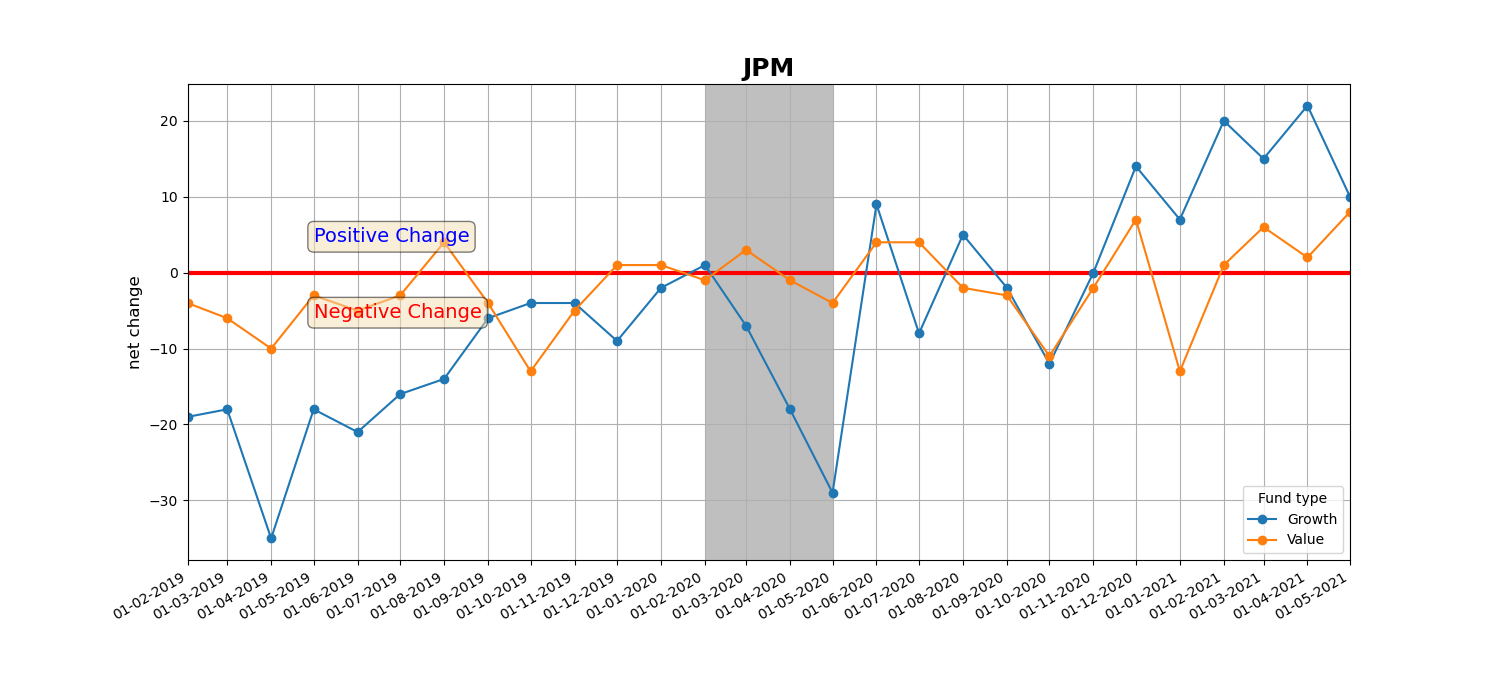
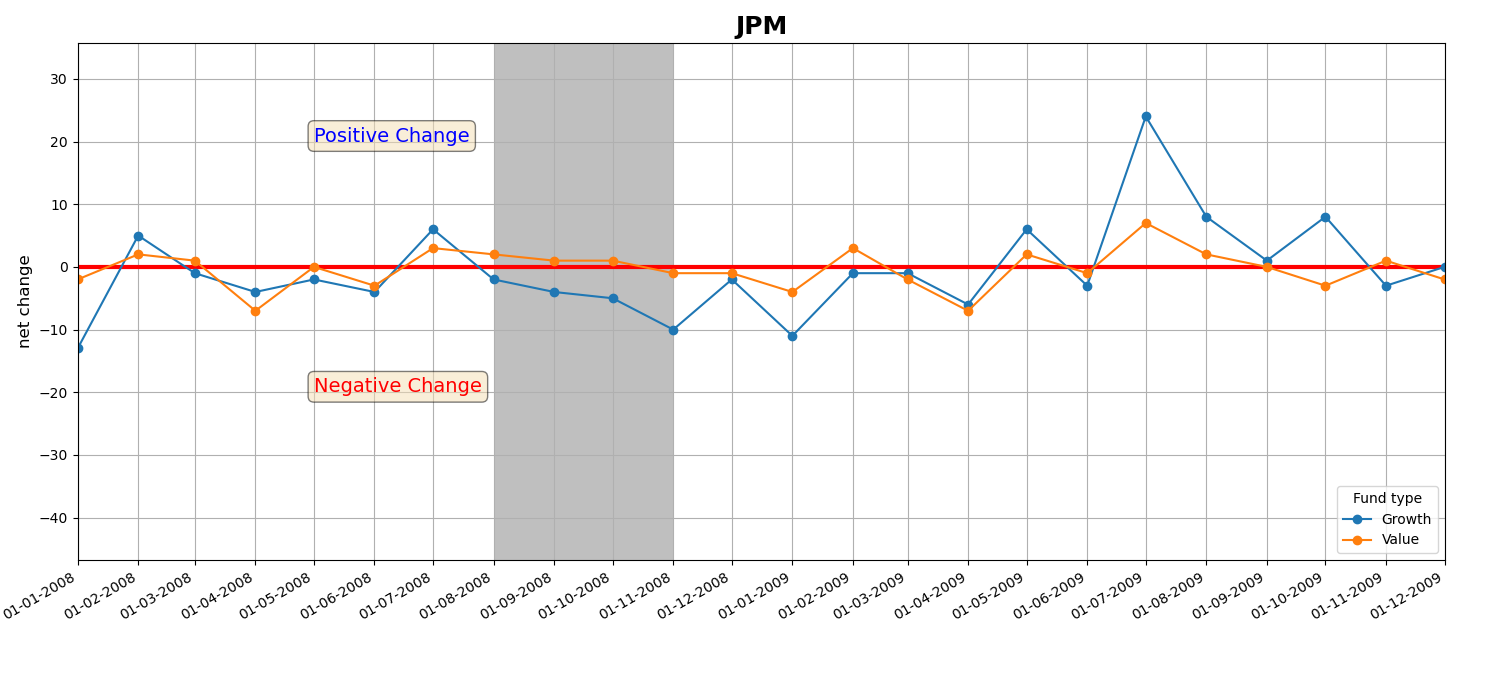
changes

diff --git a/Insight/Insight_1/4.1.extract_style_data.py b/Insight/Insight_1/4.1.extract_style_data.py
@@ -19,7 +19,7 @@ connection_to_sql = pyodbc.connect('DSN={dsn_name}'.format(dsn_name = dsn))
 #%%
 
 # update manager name
-manager = 'fidelity'
+manager = 'blackrock'
 
 
 start_time = time.time()
@@ -35,12 +35,66 @@ print("Process finished --- %s seconds ---" % (time.time() - start_time))
 
 
 start_date = datetime.date(2019, 1, 1)
-end_date = datetime.date(2021, 5, 1)
+end_date = datetime.date(2020, 12, 1)
 interval = 1
+position_pos = 20
+position_neg = 35
 
 
+# %%
+
+# shorter version
+
+fig, ax = plt.subplots(figsize=(15,7))
+
+ax.set_title(manager, fontsize=18, fontweight='bold') # title of the plot
+ax.axhline(linewidth=3, color='r') # red color line on y=0
+
+if start_date > datetime.date(2015, 1, 1):
+
+    ax.axvspan(datetime.date(2020, 2, 1), datetime.date(2020, 5, 1), facecolor ='gray', alpha = 0.5) # gray area for March/2020
+
+else:
+    
+    ax.axvspan(datetime.date(2008, 8, 1), datetime.date(2008, 11, 1), facecolor ='gray', alpha = 0.5) # gray area for Sep/2008
+
+
+ax.set_xlim([start_date, end_date]) # adjust the x axis to fit the dates available
+
+df_1[df_1.style_agg.isin(['Value', 'Growth'])].groupby(['as_of_date','style_agg']).sum()['net_chg'].unstack().plot(ax=ax, marker='o') # only plot value and growth from dataframe
+
+ax.set_xlabel('')
+ax.set_ylabel('net change', fontsize=12)
+
+# set monthly locator
+ax.xaxis.set_major_locator(mdates.MonthLocator(interval=interval))
+# set formatter
+ax.xaxis.set_major_formatter(mdates.DateFormatter('%d-%m-%Y'))
+# set font and rotation for date tick labels
+
+plt.tight_layout()
+plt.gcf().autofmt_xdate()
+plt.grid(which='major') # add background grid
+plt.legend(loc ="lower right", title = 'Fund type') # place legend
+
+if start_date > datetime.date(2015, 1, 1):
+    plt.text(datetime.date(2019, 5, 1), position_pos, 'Positive Change', fontsize=14, color='blue', bbox=dict(boxstyle='round', facecolor='wheat', alpha=0.5)) # adding text box
+    plt.text(datetime.date(2019, 5, 1), -position_neg, 'Negative Change', fontsize=14, color='red', bbox=dict(boxstyle='round', facecolor='wheat', alpha=0.5))
+
+else:
+    plt.text(datetime.date(2008, 5, 1), position_pos, 'Positive Change', fontsize=14, color='blue', bbox=dict(boxstyle='round', facecolor='wheat', alpha=0.5)) # adding text box
+    plt.text(datetime.date(2008, 5, 1), -position_neg, 'Negative Change', fontsize=14, color='red', bbox=dict(boxstyle='round', facecolor='wheat', alpha=0.5))
+
+
+plt.savefig('{}.png'.format(manager), dpi=100) # store image
+plt.show()
 
 #%%
+
+
+# output Excel
+
+
 
 #df_1.head()
 #df_1.info()
@@ -52,6 +106,10 @@ interval = 1
 
 # only taking certain dates
 df_2 = df_1[df_1.style_agg.isin(['Value', 'Growth']) & (end_date >= df_1['as_of_date']) & (df_1['as_of_date'] >= start_date)]
+
+df_2
+
+#%%
 
 
 def generate_excel(df_2):
@@ -80,38 +138,6 @@ def generate_excel(df_2):
 
 
 generate_excel(df_2)
-
-
-# %%
-
-# shorter version
-
-fig, ax = plt.subplots(figsize=(15,7))
-
-ax.set_title(manager, fontsize=18, fontweight='bold') # title of the plot
-ax.axhline(linewidth=3, color='r') # red color line on y=0
-ax.axvspan(datetime.date(2020, 2, 1), datetime.date(2020, 5, 1), facecolor ='gray', alpha = 0.5) # gray area for March/2020
-ax.set_xlim([start_date, end_date]) # adjust the x axis to fit the dates available
-
-df_1[df_1.style_agg.isin(['Value', 'Growth'])].groupby(['as_of_date','style_agg']).sum()['net_chg'].unstack().plot(ax=ax, marker='o') # only plot value and growth from dataframe
-
-ax.set_xlabel('')
-ax.set_ylabel('net change', fontsize=12)
-
-# set monthly locator
-ax.xaxis.set_major_locator(mdates.MonthLocator(interval=interval))
-# set formatter
-ax.xaxis.set_major_formatter(mdates.DateFormatter('%d-%m-%Y'))
-# set font and rotation for date tick labels
-
-plt.gcf().autofmt_xdate()
-plt.grid(which='major') # add background grid
-plt.legend(loc ="lower right", title = 'Fund type') # place legend
-plt.text(datetime.date(2019, 5, 1), 10, 'Positive Change', fontsize=14, color='blue', bbox=dict(boxstyle='round', facecolor='wheat', alpha=0.5)) # adding text box
-plt.text(datetime.date(2019, 5, 1), -10, 'Negative Change', fontsize=14, color='red', bbox=dict(boxstyle='round', facecolor='wheat', alpha=0.5))
-
-#plt.savefig('{}.png'.format(manager), dpi=100) # store image
-plt.show()
 
 
 #%%
@@ -146,6 +172,7 @@ ax.xaxis.set_major_locator(mdates.MonthLocator(interval=interval))
 ax.xaxis.set_major_formatter(mdates.DateFormatter('%d-%m-%Y'))
 # set font and rotation for date tick labels
 
+plt.tight_layout()
 plt.gcf().autofmt_xdate()
 plt.grid(which='major') # add background grid
 plt.legend(loc ="lower right", title = 'Fund type') # place legend
@@ -157,6 +184,10 @@ plt.show()
 
 
 # %%
+
+
+
+#%%
 
 # REFERENCE
 

diff --git a/Insight/Insight_1/4.2.extract_sector_data.py b/Insight/Insight_1/4.2.extract_sector_data.py
@@ -19,7 +19,7 @@ connection_to_sql = pyodbc.connect('DSN={dsn_name}'.format(dsn_name = dsn))
 #%%
 
 # update manager name
-manager = 'fidelity'
+manager = 'JPM'
 
 
 start_time = time.time()
@@ -47,9 +47,14 @@ print("Process finished --- %s seconds ---" % (time.time() - start_time))
 # %%
 
 style_list = ['Value','Growth']
-sector_list = ['Finance','Healthcare','Technology','Energy']
-start_date = datetime.date(2008, 7, 1)
-end_date = datetime.date(2008, 12, 1)
+sector_list = ['Finance','Healthcare','Technology','Energy', 'Utilities', 'Telecommunications', 'Non-Energy Materials', 'Consumer Non-Cyclicals', 'Industrials', 'Consumer Services', 'Consumer Cyclicals', 'Business Services']
+
+#['Finance','Healthcare','Technology','Energy']
+
+
+
+start_date = datetime.date(2019, 6, 1)
+end_date = datetime.date(2020, 12, 1)
 interval = 1
 
 # Finance
@@ -74,7 +79,7 @@ def graph(style,sector_list):
     fig, ax = plt.subplots(figsize=(15,7))
 
     ax.set_title(manager + ' - ' + style, fontsize=18, fontweight='bold') # title of the plot
-    ax.axhline(linewidth=7, color='r') # red color line on y=0
+    ax.axhline(linewidth=3, color='r') # red color line on y=0
     ax.axvspan(datetime.date(2020, 2, 1), datetime.date(2020, 5, 1), facecolor ='gray', alpha = 0.5) # gray area for March/2020
     ax.set_xlim([start_date, end_date]) # adjust the x axis to fit the dates available
 
@@ -92,13 +97,14 @@ def graph(style,sector_list):
     ax.xaxis.set_major_formatter(mdates.DateFormatter('%d-%m-%Y'))
     # set font and rotation for date tick labels
 
+    plt.tight_layout()
     plt.gcf().autofmt_xdate()
     plt.grid(which='major') # add background grid
     plt.legend(ncol = 4, loc ="upper right", title = 'Sector') # place legend
     # plt.text(datetime.date(2019, 5, 1), 2, 'Positive Change', fontsize=14, color='blue', bbox=dict(boxstyle='round', facecolor='wheat', alpha=0.5)) # adding text box
     # plt.text(datetime.date(2019, 5, 1), -6, 'Negative Change', fontsize=14, color='red', bbox=dict(boxstyle='round', facecolor='wheat', alpha=0.5))
 
-    #plt.savefig('{}.png'.format(manager + '_' + style), dpi=100) # store image
+    plt.savefig('{}.png'.format(manager + '_' + style), dpi=100) # store image
     plt.show()
 
 
